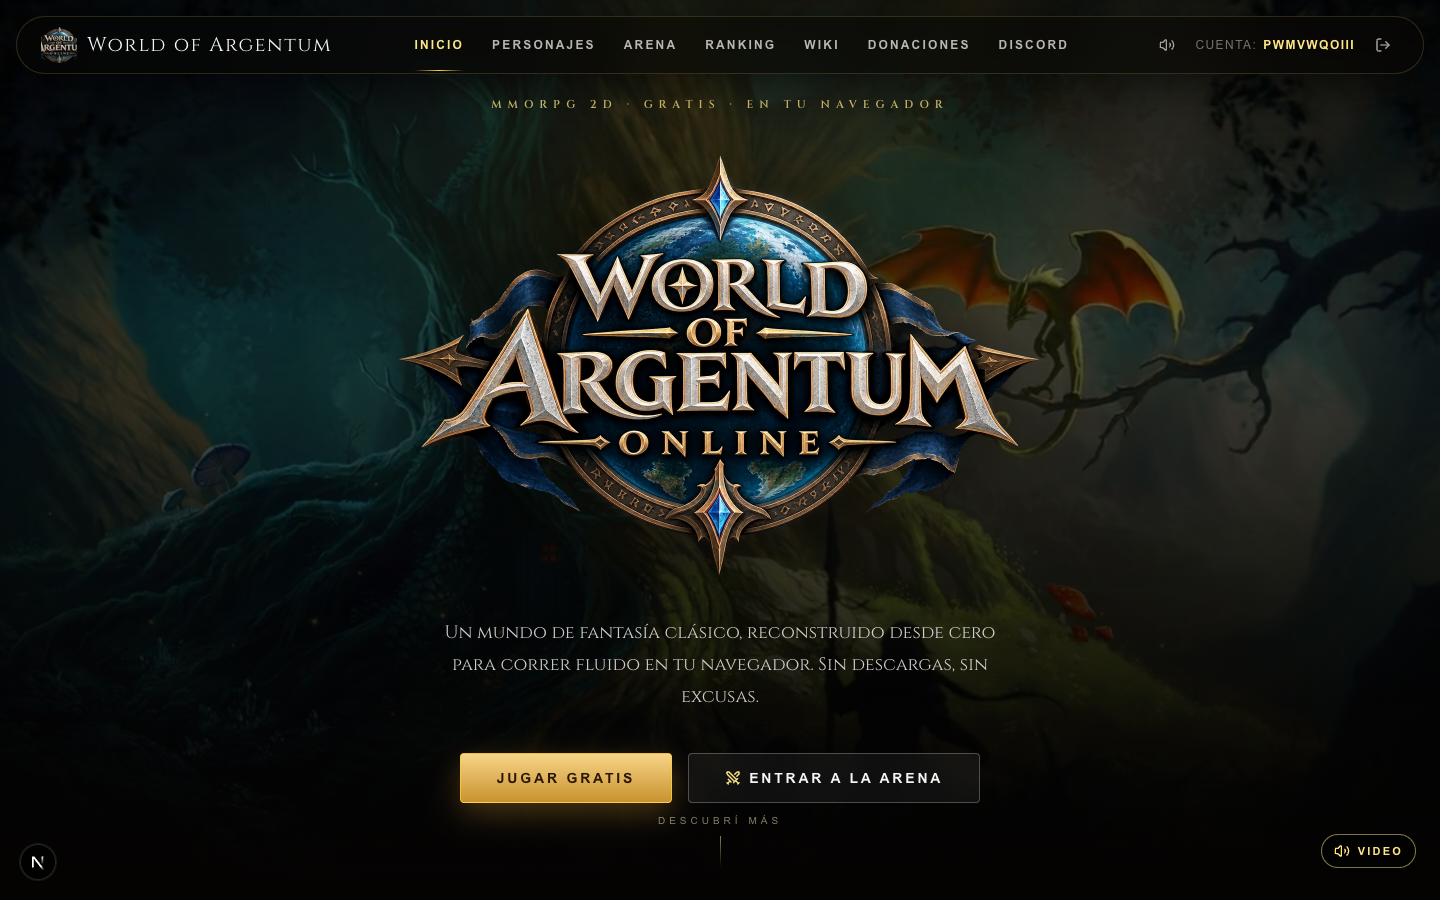
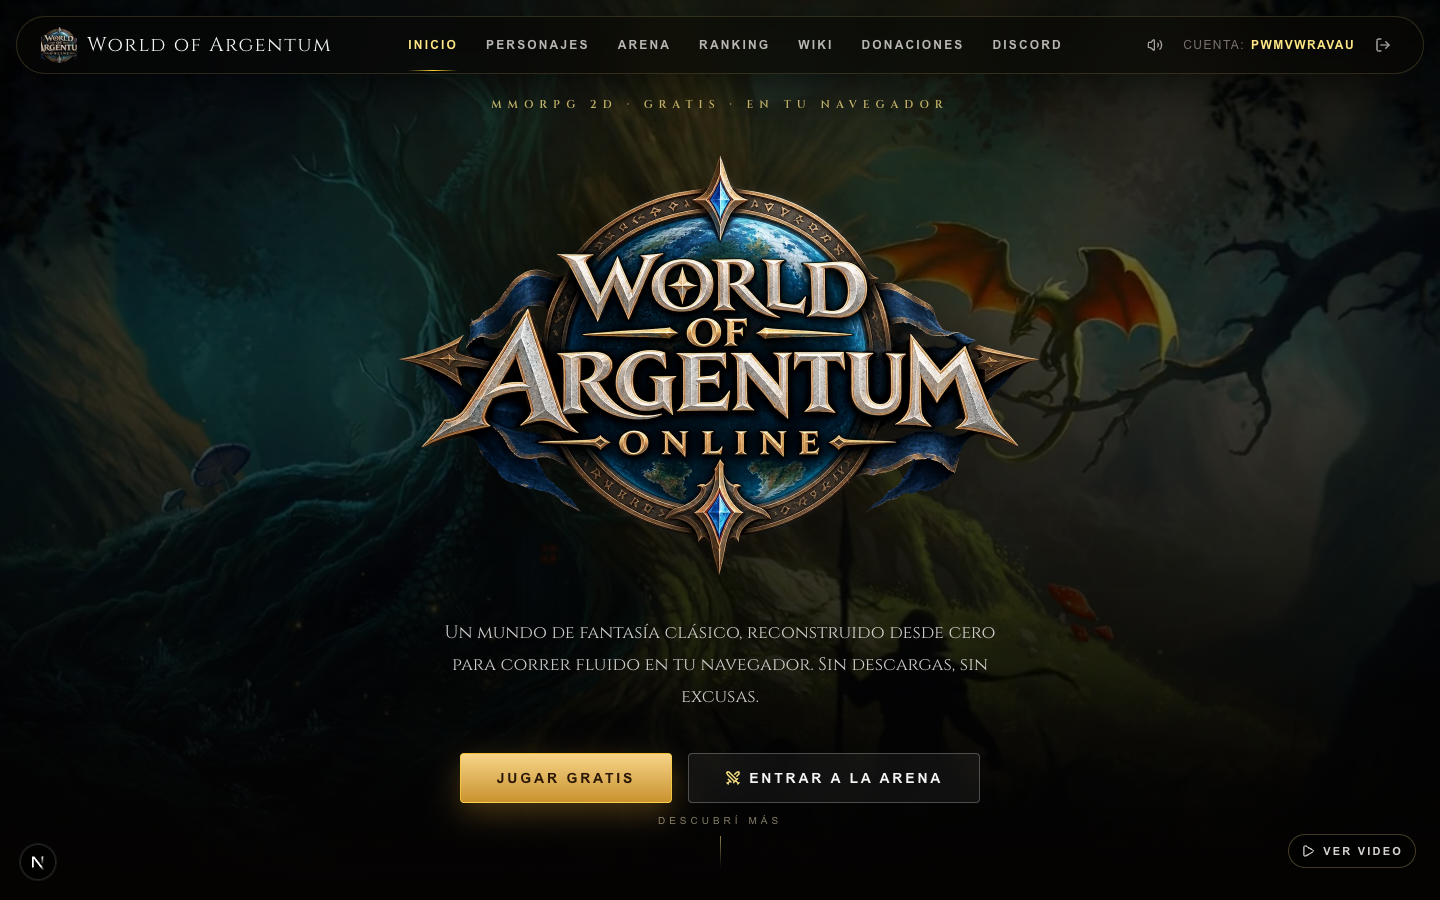
Inicio: "Ver video" abre un modal con el video en vez de activar el sonido del fondo
- El botón de abajo a la derecha abre una ventana con el video entero, con sonido y
  controles. Se cierra con la X, con Escape o tocando afuera.
- Mientras está abierta se pausan el video de fondo y la música del inicio; al cerrarla
  vuelven. El fondo sigue siempre en silencio.
- El botón está también cuando el fondo queda en imagen (conexión mala): el video se
  baja solo si lo pedís.

diff --git a/frontend/app/page.tsx b/frontend/app/page.tsx
@@ -2,8 +2,9 @@
 
 import Image from "next/image";
 import Link from "next/link";
-import { useEffect, useRef, useState } from "react";
-import { MessageCircle, Sparkles, Swords, Users, Volume2, VolumeX, X as XIcon } from "lucide-react";
+import { useCallback, useEffect, useRef, useState } from "react";
+import { createPortal } from "react-dom";
+import { MessageCircle, Play, Sparkles, Swords, Users, X as XIcon } from "lucide-react";
 import { HERO_VIDEO_SOUND_EVENT } from "../components/MenuMusic";
 import { useAuthRedirect } from "../hooks/useAuthRedirect";
 
@@ -18,8 +19,8 @@ const heroLogoPreload = (
 // Fondo del inicio: video en bucle y en silencio (3,7 MB, 720p). Su primer cuadro es igual a background.jpg, que
 // queda debajo: el video aparece recién cuando se reproduce. Con conexión mala o ahorro de datos no se baja, y si no
 // arranca en unos segundos (navegadores sin navigator.connection, autoplay bloqueado) se corta la descarga. En todos
-// esos casos queda la imagen. El botón de abajo a la derecha lo pasa a verse con sonido desde el principio y pausa la
-// música del inicio (HERO_VIDEO_SOUND_EVENT de MenuMusic).
+// esos casos queda la imagen. "Ver video" lo abre entero, con sonido y controles, en una ventana; mientras está
+// abierta se pausan el fondo y la música del inicio (HERO_VIDEO_SOUND_EVENT de MenuMusic).
 const HERO_BACKGROUND_IMAGE = "/static/imgs/background.jpg";
 const HERO_BACKGROUND_VIDEO = "/static/video/background-loop.mp4";
 const HERO_VIDEO_START_TIMEOUT_MS = 8000;
@@ -48,30 +49,12 @@ function announceHeroVideoSound(on: boolean) {
     window.dispatchEvent(new CustomEvent(HERO_VIDEO_SOUND_EVENT, { detail: on }));
 }
 
-function HeroBackgroundVideo() {
+function HeroBackground() {
     const videoRef = useRef<HTMLVideoElement | null>(null);
     const [enabled, setEnabled] = useState(canPlayHeroVideo);
     const [playing, setPlaying] = useState(false);
-    const [withSound, setWithSound] = useState(false);
-
-    // Al irse del inicio (o si el video se corta) vuelve la música.
-    useEffect(() => () => announceHeroVideoSound(false), []);
-
-    const toggleSound = () => {
-        const video = videoRef.current;
-        if (!video) {
-            return;
-        }
-
-        const next = !withSound;
-        if (next) {
-            video.currentTime = 0;
-        }
-        video.muted = !next;
-        void video.play().catch(() => {});
-        setWithSound(next);
-        announceHeroVideoSound(next);
-    };
+    const [modalOpen, setModalOpen] = useState(false);
+    const closeModal = useCallback(() => setModalOpen(false), []);
 
     useEffect(() => {
         if (!enabled || playing) {
@@ -82,42 +65,98 @@ function HeroBackgroundVideo() {
         return () => window.clearTimeout(timer);
     }, [enabled, playing]);
 
-    if (!enabled) {
-        return null;
-    }
+    // Con la ventana abierta se pausan el fondo y la música del inicio; al cerrarla (o al irse del inicio) vuelven.
+    useEffect(() => {
+        if (!modalOpen) {
+            return;
+        }
+
+        const background = videoRef.current;
+        background?.pause();
+        announceHeroVideoSound(true);
+        return () => {
+            announceHeroVideoSound(false);
+            void background?.play().catch(() => {});
+        };
+    }, [modalOpen]);
 
     return (
         <>
-        <video
-            ref={videoRef}
-            className={`absolute inset-0 h-full w-full object-cover transition-opacity duration-700 ${
-                playing ? "opacity-100" : "opacity-0"
-            }`}
-            src={HERO_BACKGROUND_VIDEO}
-            poster={HERO_BACKGROUND_IMAGE}
-            autoPlay
-            muted
-            loop
-            playsInline
-            preload="auto"
-            disablePictureInPicture
-            aria-hidden="true"
-            onPlaying={() => setPlaying(true)}
-        />
-        {playing ? (
+            {enabled ? (
+                <video
+                    ref={videoRef}
+                    className={`absolute inset-0 h-full w-full object-cover transition-opacity duration-700 ${
+                        playing ? "opacity-100" : "opacity-0"
+                    }`}
+                    src={HERO_BACKGROUND_VIDEO}
+                    poster={HERO_BACKGROUND_IMAGE}
+                    autoPlay
+                    muted
+                    loop
+                    playsInline
+                    preload="auto"
+                    disablePictureInPicture
+                    aria-hidden="true"
+                    onPlaying={() => setPlaying(true)}
+                />
+            ) : null}
             <button
                 type="button"
-                onClick={toggleSound}
-                aria-pressed={withSound}
-                aria-label={withSound ? "Silenciar el video" : "Ver el video con sonido"}
-                title={withSound ? "Silenciar el video" : "Ver el video con sonido"}
+                onClick={() => setModalOpen(true)}
                 className="absolute bottom-8 right-6 z-10 inline-flex items-center gap-2 rounded-full border border-amber-200/25 bg-black/45 px-3 py-2 text-[11px] font-semibold uppercase tracking-[0.2em] text-stone-300 backdrop-blur-sm transition hover:border-amber-200/50 hover:text-amber-200"
             >
-                {withSound ? <Volume2 className="h-4 w-4" /> : <VolumeX className="h-4 w-4" />}
-                Video
+                <Play className="h-3.5 w-3.5" />
+                Ver video
             </button>
-        ) : null}
+            {modalOpen ? <HeroVideoModal onClose={closeModal} /> : null}
         </>
+    );
+}
+
+// El video entero, con sonido y controles, en una ventana sobre todo el sitio.
+function HeroVideoModal({ onClose }: { onClose: () => void }) {
+    const closeRef = useRef<HTMLButtonElement | null>(null);
+
+    useEffect(() => {
+        closeRef.current?.focus();
+        const onKeyDown = (event: KeyboardEvent) => {
+            if (event.key === "Escape") {
+                onClose();
+            }
+        };
+        window.addEventListener("keydown", onKeyDown);
+        return () => window.removeEventListener("keydown", onKeyDown);
+    }, [onClose]);
+
+    return createPortal(
+        <div
+            role="dialog"
+            aria-modal="true"
+            aria-label="Video de World of Argentum"
+            className="fixed inset-0 z-[70] flex items-center justify-center bg-black/85 p-4 backdrop-blur-sm"
+            onClick={onClose}
+        >
+            <div className="relative w-full max-w-5xl" onClick={(event) => event.stopPropagation()}>
+                <button
+                    ref={closeRef}
+                    type="button"
+                    onClick={onClose}
+                    aria-label="Cerrar video"
+                    className="absolute right-2 top-2 z-10 inline-flex h-9 w-9 items-center justify-center rounded-full border border-amber-200/25 bg-black/60 text-stone-300 transition hover:border-amber-200/50 hover:text-amber-200"
+                >
+                    <XIcon className="h-4 w-4" />
+                </button>
+                <video
+                    src={HERO_BACKGROUND_VIDEO}
+                    poster={HERO_BACKGROUND_IMAGE}
+                    autoPlay
+                    controls
+                    playsInline
+                    className="aspect-video max-h-[80vh] w-full rounded-[6px] border border-amber-200/15 bg-black object-contain shadow-2xl"
+                />
+            </div>
+        </div>,
+        document.body,
     );
 }
 
@@ -149,7 +188,7 @@ export default function HomePage() {
                     className="absolute inset-0 bg-cover bg-center"
                     style={{ backgroundImage: `url(${HERO_BACKGROUND_IMAGE})` }}
                 />
-                <HeroBackgroundVideo />
+                <HeroBackground />
                 <div className="absolute inset-0 bg-black/55" />
                 <div className="absolute inset-0 bg-[linear-gradient(180deg,rgba(3,2,1,0.35)_0%,rgba(3,2,1,0.15)_35%,rgba(3,2,1,0.75)_78%,#050302_100%)]" />
                 <div className="pointer-events-none absolute -top-24 left-1/2 h-[520px] w-[520px] -translate-x-1/2 rounded-full bg-amber-400/10 blur-[140px]" />

diff --git a/frontend/components/MenuMusic.tsx b/frontend/components/MenuMusic.tsx
@@ -10,8 +10,8 @@ import { MENU_MUSIC, MusicPlaylist } from "../lib/worldMusic";
 // aparte del volumen de música del juego (que arranca al 10%); el botón la silencia y se recuerda.
 
 const MUTED_STORAGE_KEY = "ao-menu-music-muted";
-// El video de fondo del inicio avisa con este evento (detail: true/false) cuando se escucha con sonido: mientras
-// tanto la música se pausa.
+// El inicio avisa con este evento (detail: true/false) cuando se abre y se cierra la ventana del video con sonido:
+// mientras tanto la música se pausa.
 export const HERO_VIDEO_SOUND_EVENT = "woao:hero-video-sound";
 const MENU_MUSIC_VOLUME = 0.3;
 const HOME_ROUTES = new Set(["/", "/login", "/register", "/characters"]);
